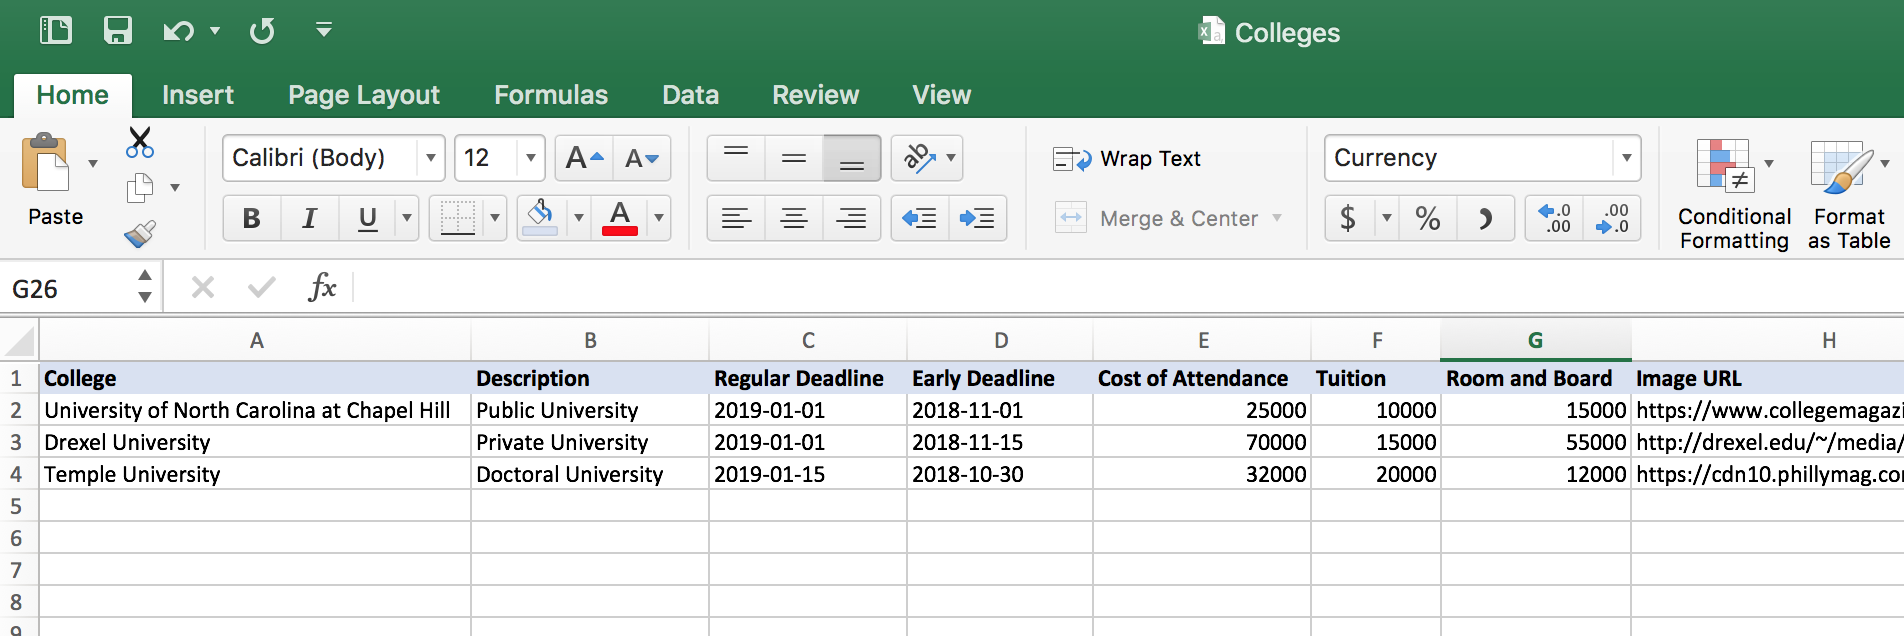
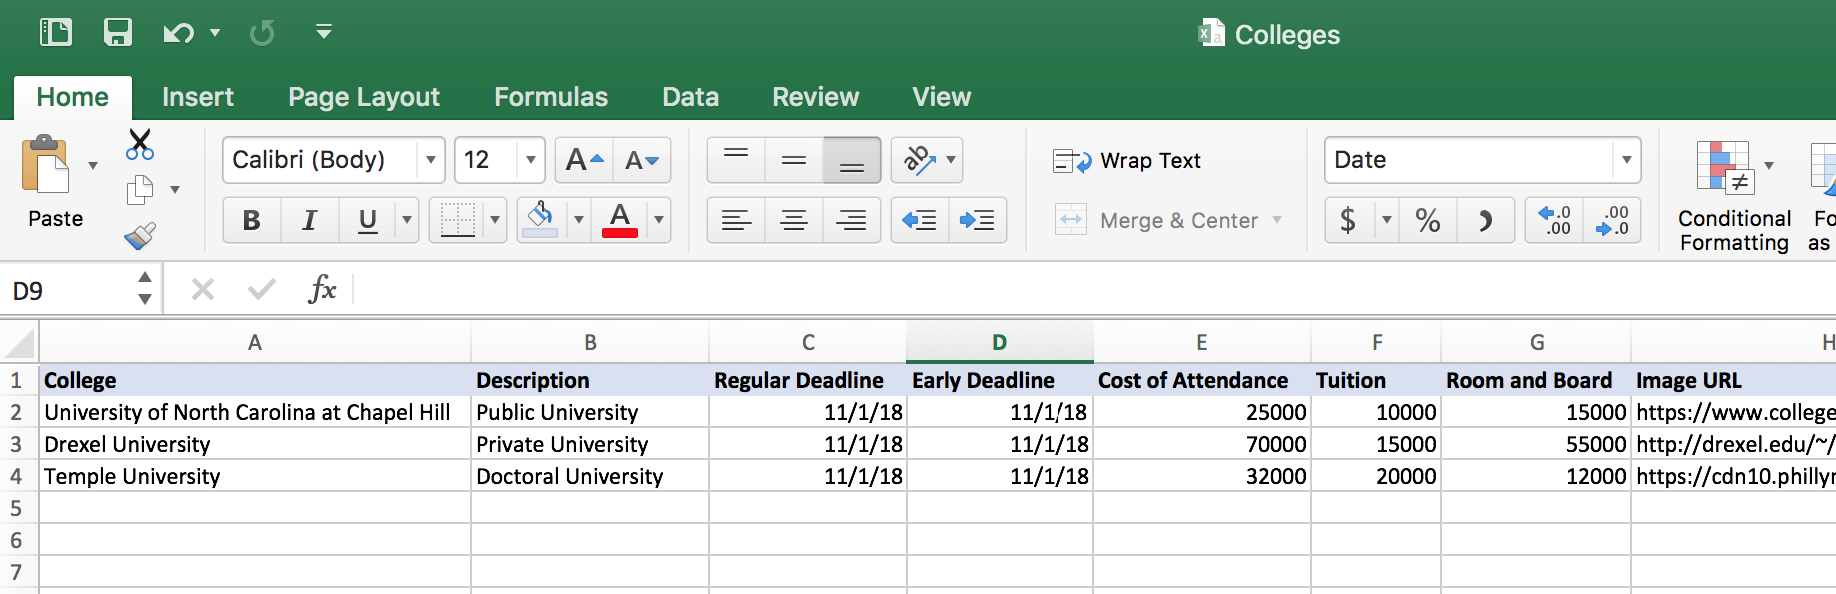
finalized screenshot

Changed region(s): [[0.0, 0.0303, 1.0, 1.0], [0.6209, 0.0303, 0.7451, 0.0909]]

diff --git a/app/templates/counselor/upload_colleges.html b/app/templates/counselor/upload_colleges.html
@@ -17,8 +17,8 @@
             <ol>
                <li>College Name</li>
                <li>College description</li>
-               <li>Regular Deadline (YYYY-MM-DD)</li>
-               <li>Early Deadline (YYYY-MM-DD)</li>
+               <li>Regular Deadline (M-D-Y) (Excel should autoformat dates correctly)</li>
+               <li>Early Deadline (M-D-Y) (Excel should autoformat dates correctly)</li> 
                <li>Cost of Attendance</li>
                <li>Tuition</li>
                <li>Room and Board</li>
